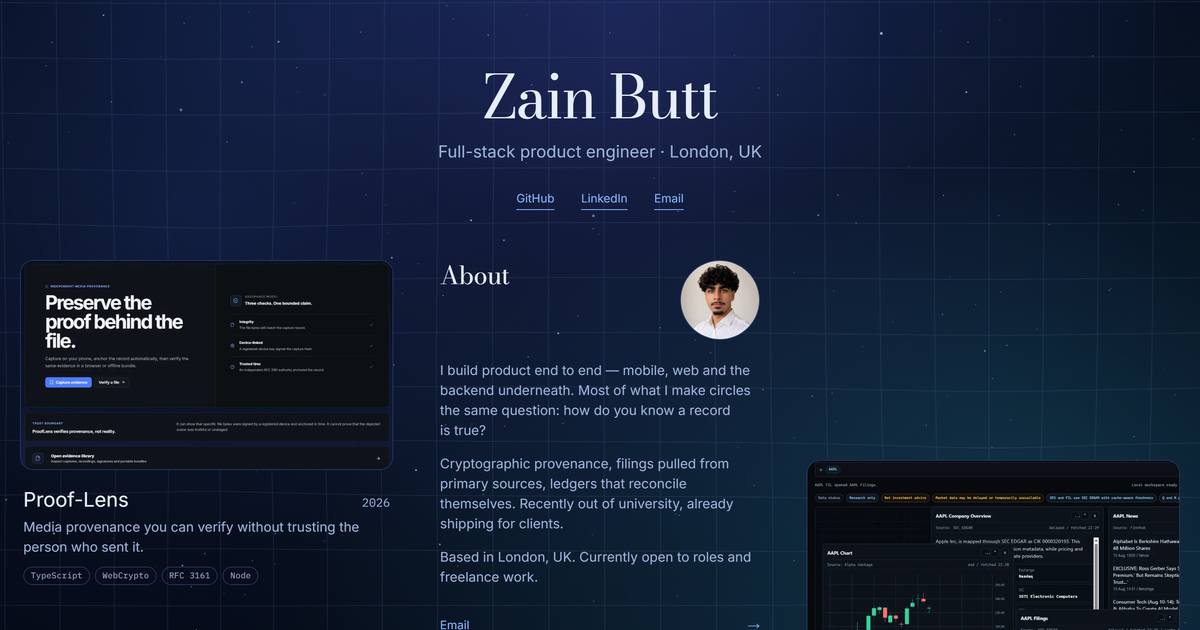
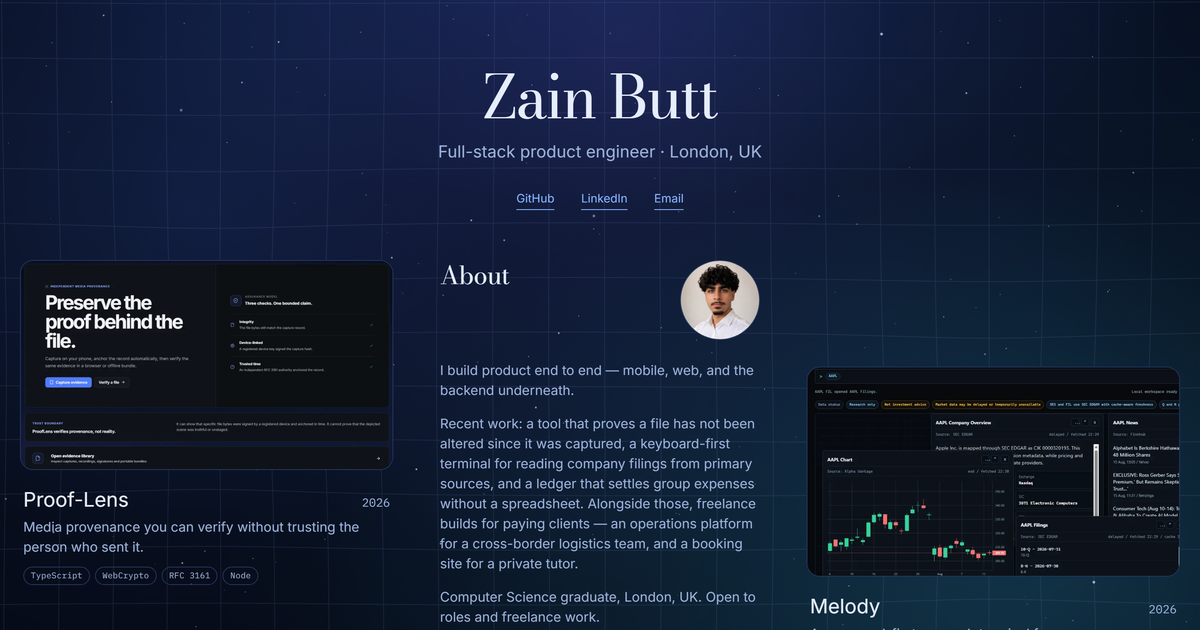
fix: the five project links failed WCAG 2.5.3, and refresh the OG card
Each artefact's caption carried aria-label="<title> — <tagline>", which
overrode the visible text rather than containing it. The year and the stack
chips are inside that link and were absent from its accessible name, so someone
using speech input reads "Proof-Lens 2026" off the screen and addresses a
control that is not called that. Level A, and it was on all five of the page's
primary navigation targets.

The link's own text is a better name and it adapts on its own: on a phone the
year, tagline and chips are display:none, so the name collapses to just the
title, which is exactly what a springboard tile should announce.

Found by the first Lighthouse and axe run this site has had. Everything else
came back clean — 99 performance, 100 accessibility, 100 best practices, 100
SEO, LCP 0.8s, CLS 0, TBT 0ms — and the contrast that axe could not compute
through the canvas measures 7.4:1 at its worst, against a 4.5:1 requirement.

The OG card is also re-photographed. It predated the app icons, Replay's dark
theme and the springboard, so it was advertising a version of the site that no
longer exists.

Changed region(s): [[0.6475, 0.573, 0.9867, 1.0], [0.37, 0.573, 0.6475, 1.0]]

diff --git a/src/components/ProjectCard.tsx b/src/components/ProjectCard.tsx
@@ -228,7 +228,15 @@ export function ProjectCard({
           opacity: focused ? 0 : 1,
           pointerEvents: focused ? "none" : undefined,
         }}
-        aria-label={`${project.title} — ${project.tagline}`}
+        /* No `aria-label`. It used to read "<title> — <tagline>", which *omits*
+           the year and the stack chips that are visibly inside this link — a
+           WCAG 2.5.3 failure (Label in Name, level A) on all five of the page's
+           primary targets. Someone using speech input reads "Proof-Lens 2026"
+           off the screen and addresses a control that is not called that.
+
+           The link's own text is a better name anyway, and it adapts: on a
+           phone the year, tagline and chips are `display: none`, so the name
+           collapses to just the title. */
         aria-expanded={focused}
         aria-hidden={focused}
         tabIndex={focused ? -1 : undefined}
